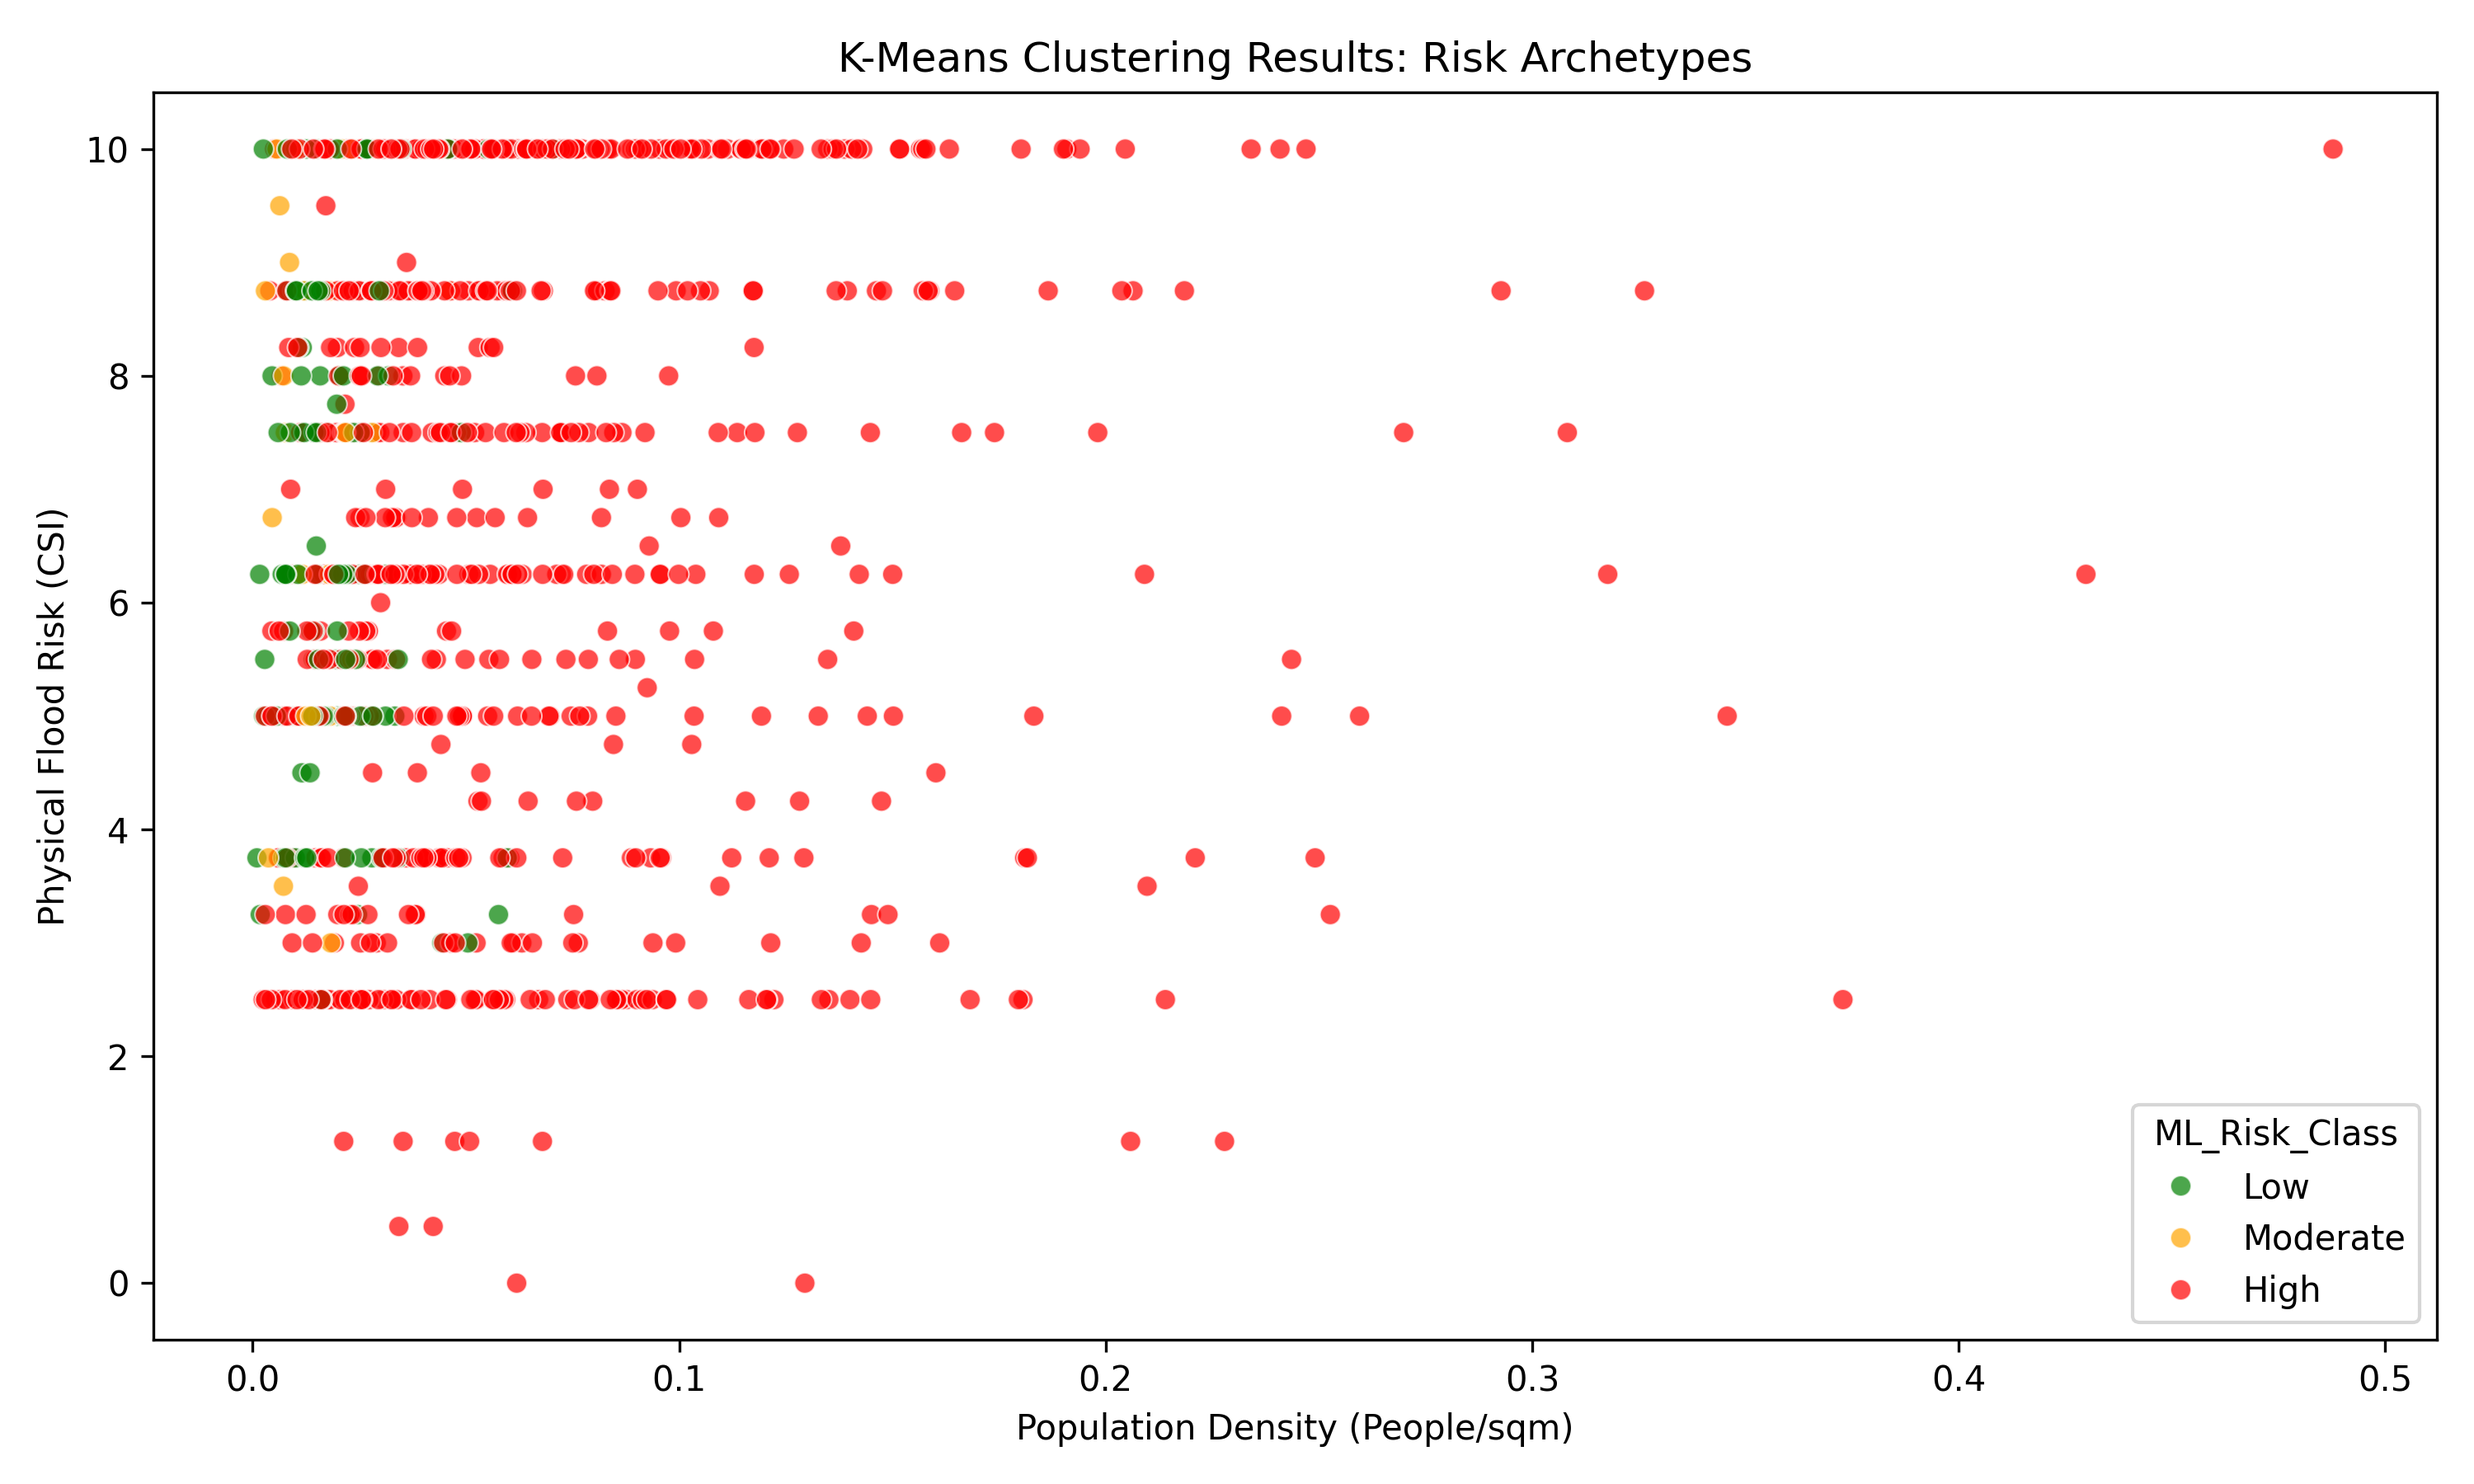
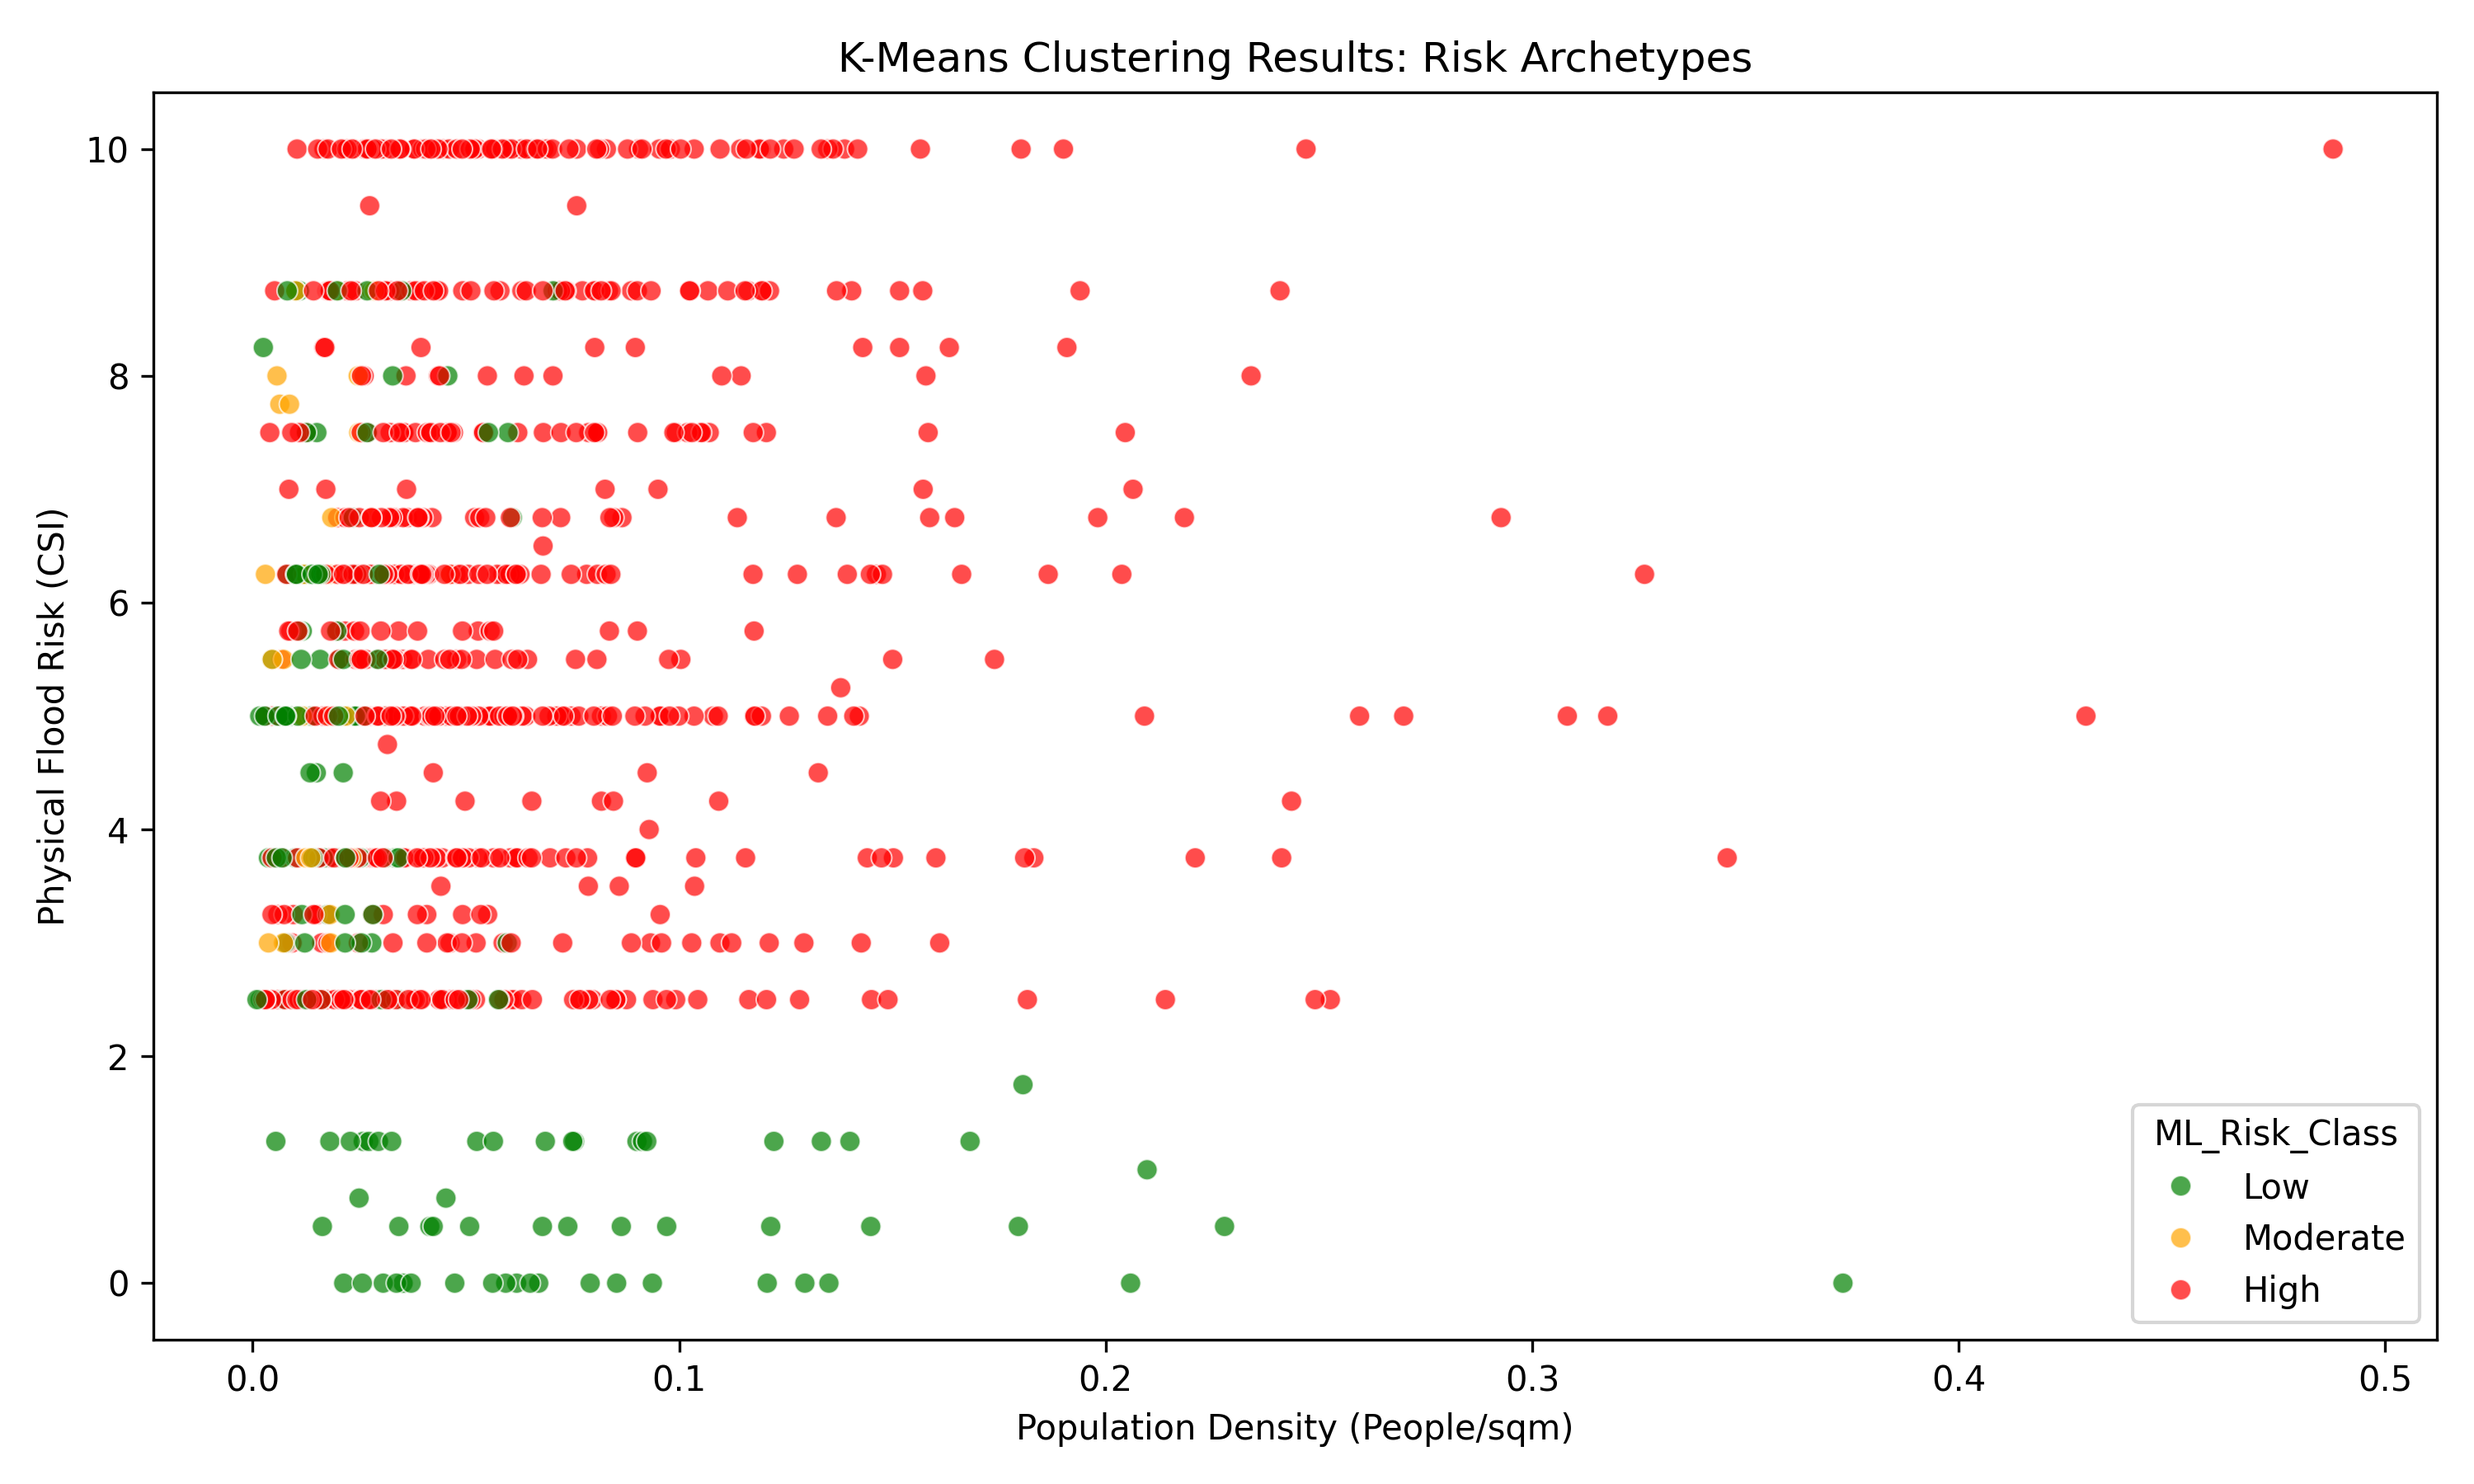
replace

diff --git a/ml-backend.py b/ml-backend.py
@@ -68,14 +68,17 @@ def calculate_indices(df):
     
     df['Vulnerability_Score'] = df['Pop_Density'].apply(get_vuln_score)
 
-    # Flood Risk Scores (Physical Risk - Based on Coverage Ratio)
+    # Flood Risk Scores (Physical Risk - TIGHTENED THRESHOLDS)
+    # Fixes the "Alarmist" bias by making it harder to get a 10.0 score
     def get_flood_score(flood_area, total_area):
         if pd.isna(total_area) or total_area == 0: return 0
         ratio = flood_area / total_area
-        if ratio >= 0.50: return 10.0
-        elif ratio >= 0.30: return 7.5
-        elif ratio >= 0.15: return 5.0
-        elif ratio > 0.0: return 2.5
+        
+        # Stricter Rules:
+        if ratio >= 0.80: return 10.0   # Only >80% coverage is "Very High"
+        elif ratio >= 0.50: return 7.5  # >50% is High
+        elif ratio >= 0.20: return 5.0  # >20% is Moderate
+        elif ratio > 0.05: return 2.5   # >5% is Low
         else: return 0.0
 
     # Calculate scores for DPI formula
@@ -126,6 +129,13 @@ def run_ml_pipeline(df):
     cluster_ranks = df.groupby("Cluster_Group")["DPI"].mean().sort_values().index
     risk_labels = {cluster_ranks[0]: "Low", cluster_ranks[1]: "Moderate", cluster_ranks[2]: "High"}
     df["ML_Risk_Class"] = df["Cluster_Group"].map(risk_labels)
+
+    # === HYBRID LOGIC OVERRIDE (Sanity Check) ===
+    # 1. If Physical Risk (CSI) is extreme (>9.0), Force HIGH RISK
+    df.loc[df['CSI'] >= 9.0, 'ML_Risk_Class'] = 'High'
+    
+    # 2. If Physical Risk is very low (<2.0), Force LOW RISK (Fixes Blue Ridge if data allows)
+    df.loc[df['CSI'] <= 2.0, 'ML_Risk_Class'] = 'Low'
 
     # VISUALIZATION: Generate K-Means Scatter Plot
     try:
